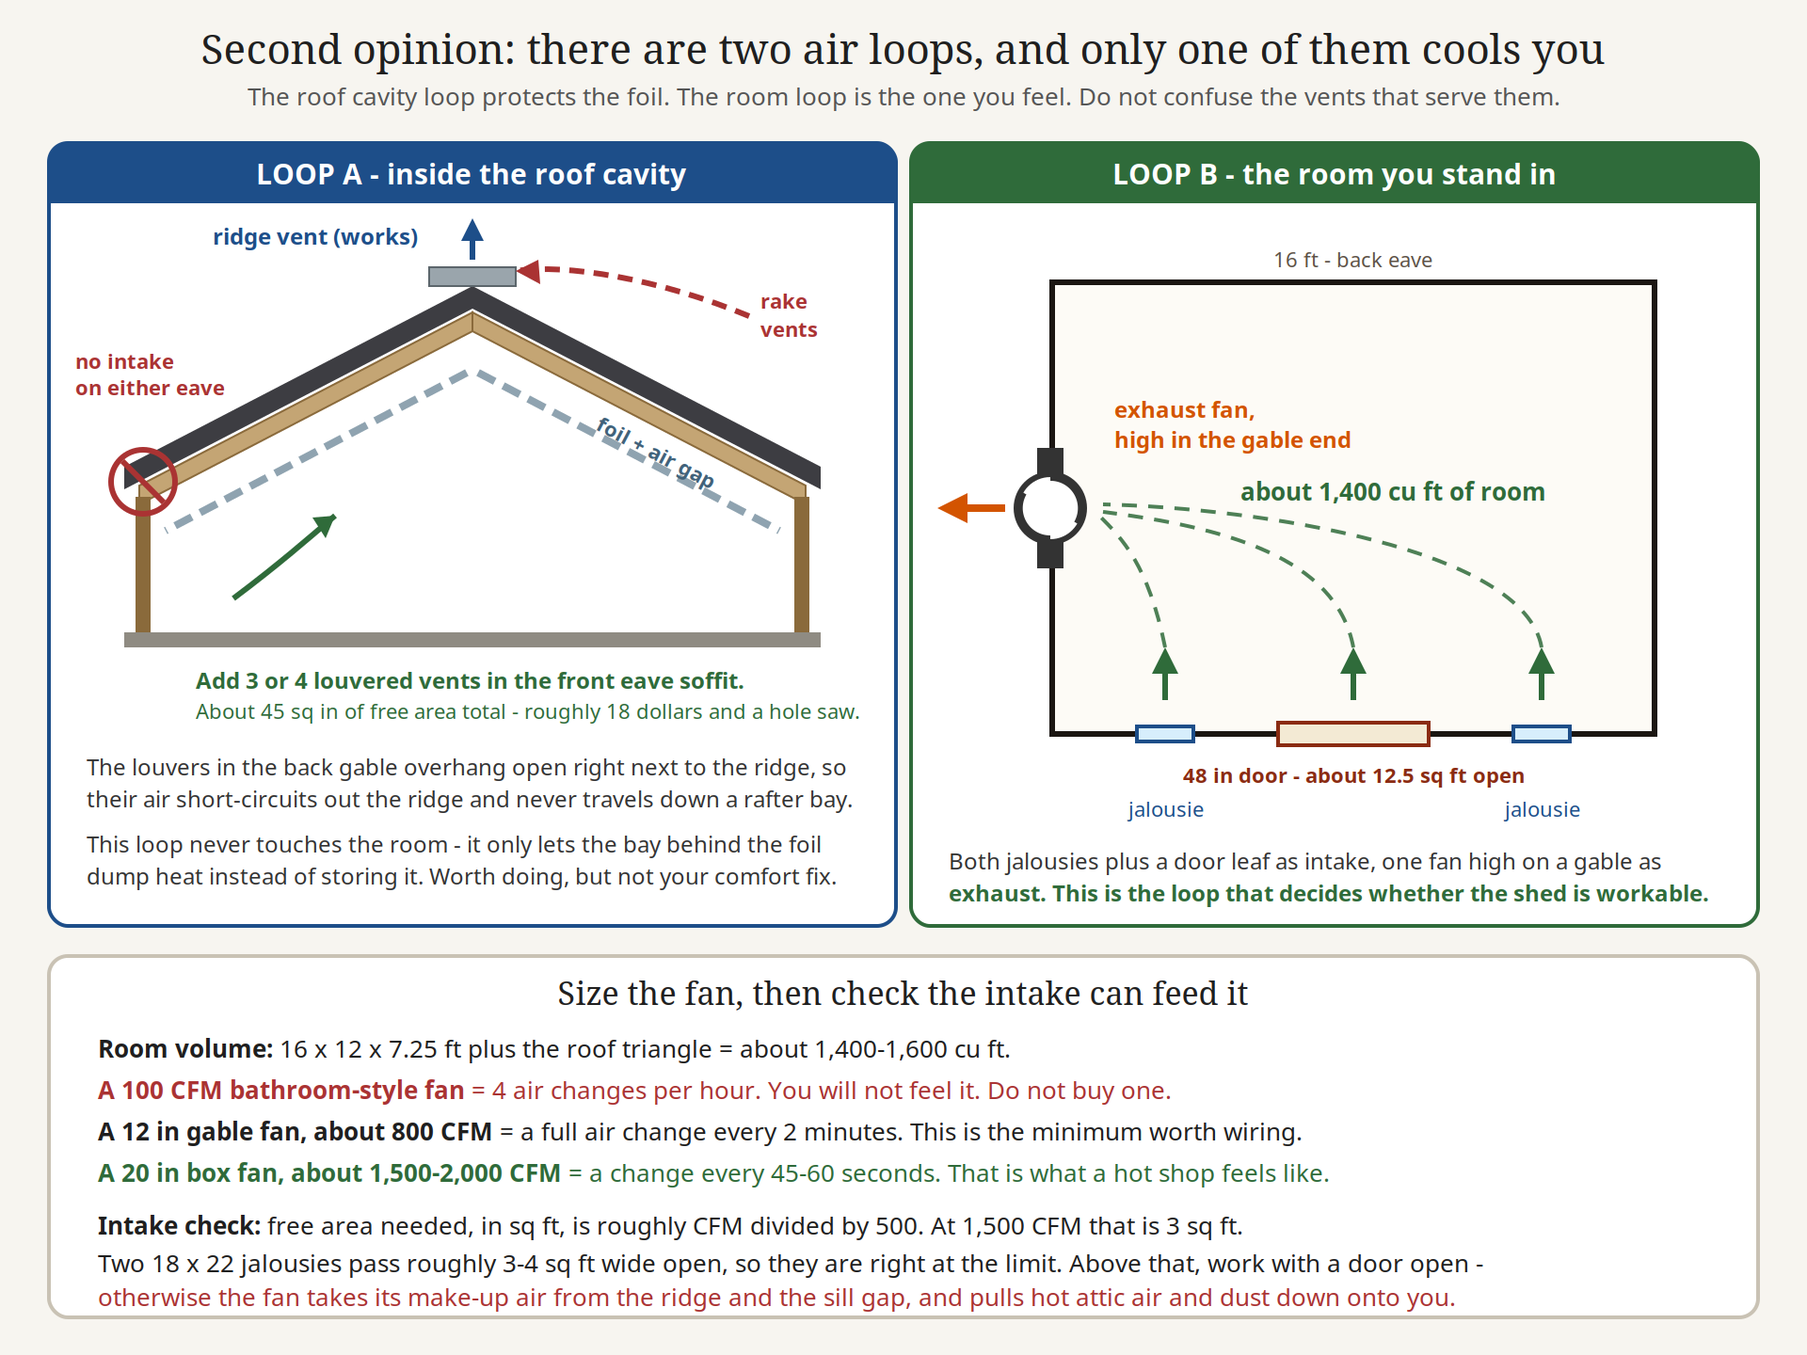
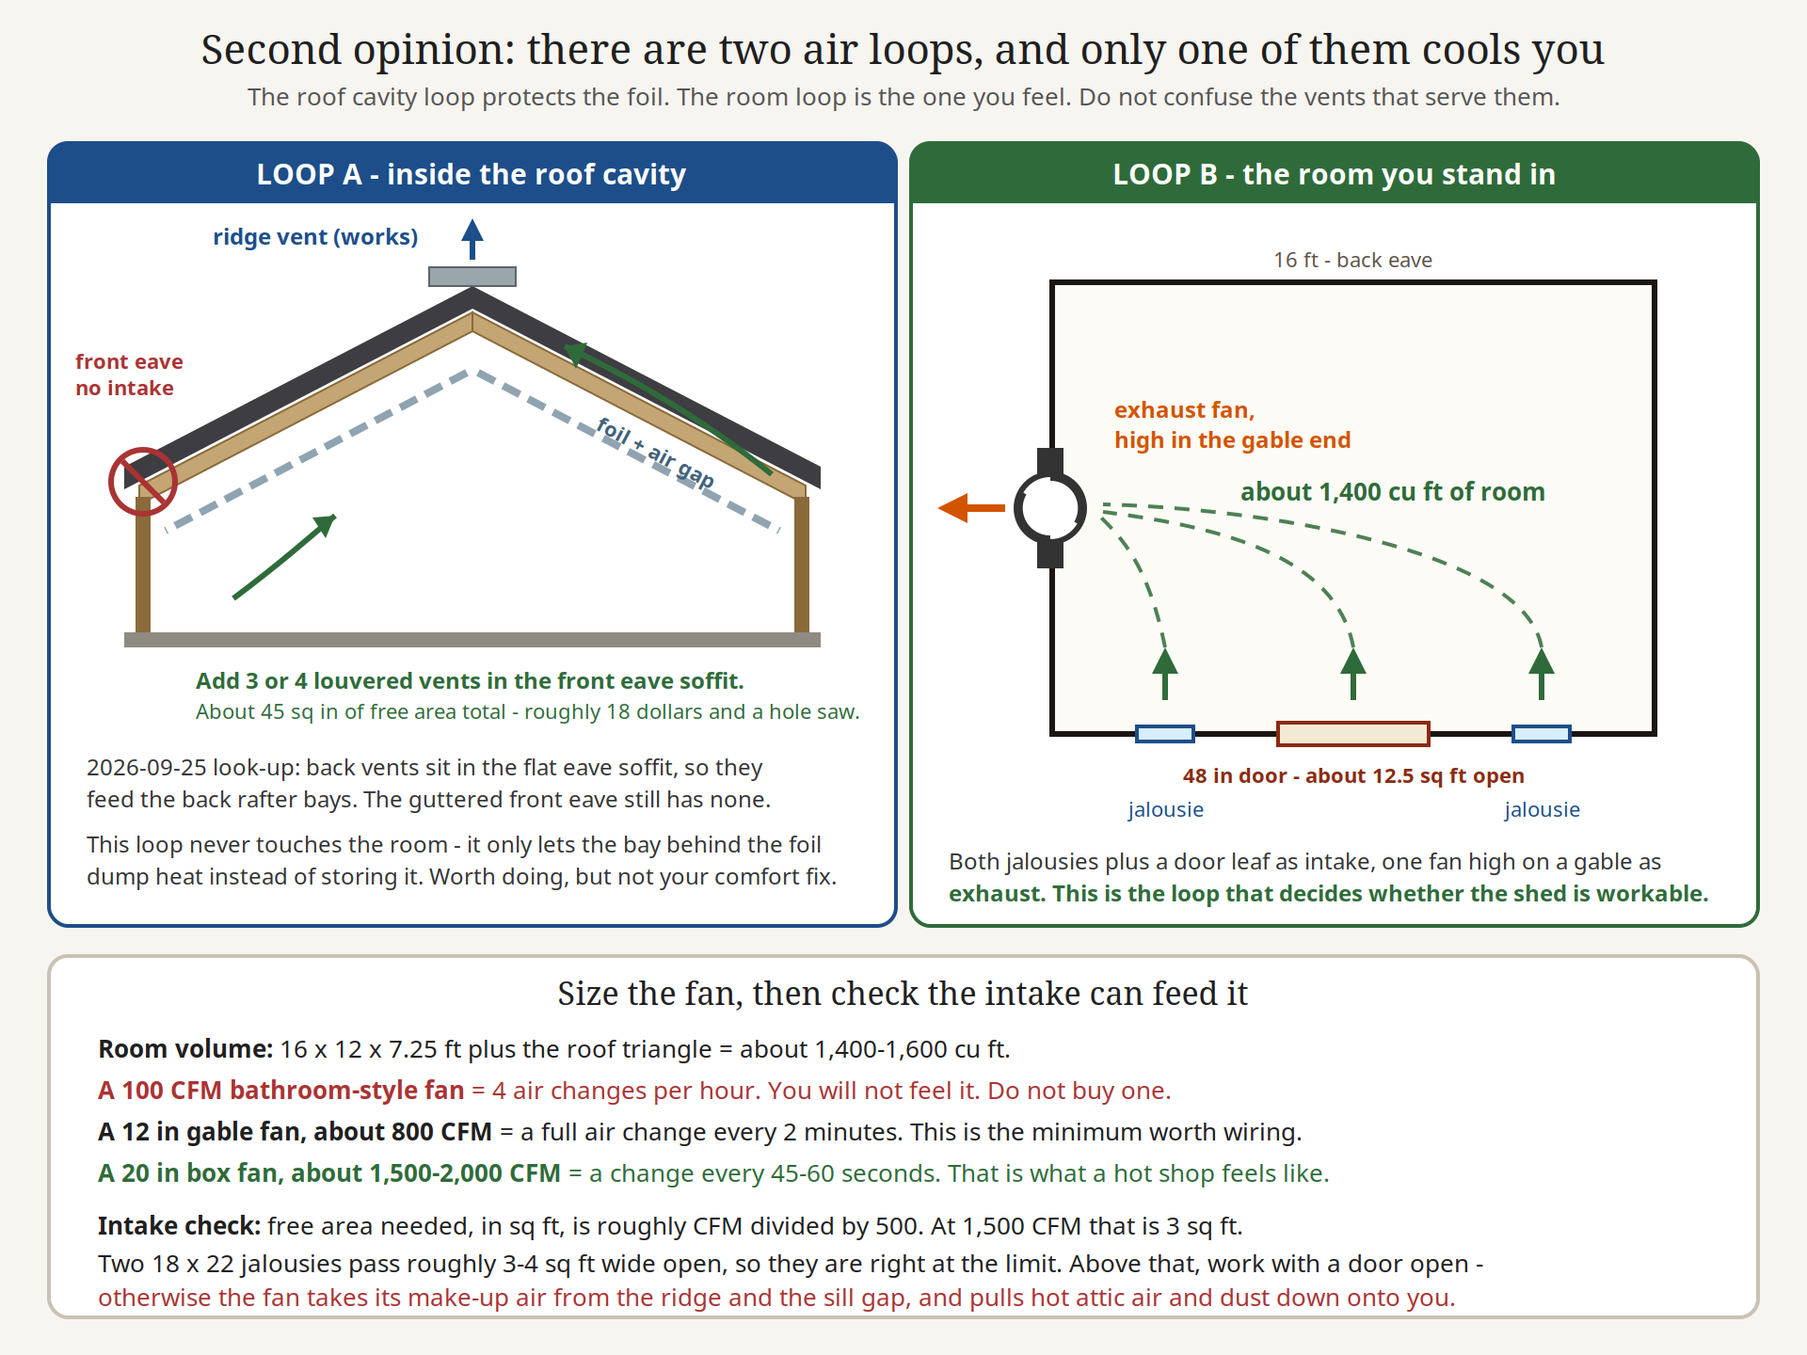
Record the 2026-09-25 shed photos and correct the back soffit path.
The look-up under the unguttered eave shows the louvers in the flat soffit, so they feed the back rafter bays. The front wall is clear, and the sill corners still need a probe at the door-jamb bolt.

diff --git a/index.html b/index.html
@@ -69,7 +69,7 @@
           <a href="photos/exterior-back.jpg">
             <img src="photos/exterior-back.jpg" alt="Back eave of the shed with a rectangular louvered soffit vent under the overhang.">
           </a>
-          <figcaption>Back eave — soffit vents. Roof-cavity intake to the ridge. Don't block them with foil or paint.</figcaption>
+          <figcaption>Back eave, wide shot. The 2026-09-25 look-up confirms these louvers are in the flat soffit and feed the rafter bays.</figcaption>
         </figure>
         <figure>
           <a href="photos/interior.jpg">
@@ -94,6 +94,36 @@
             <img src="photos/interior-sill.jpg" alt="Wall base: 2x4 studs on a wood sill plate, dark moisture stain on the bottom 6 to 10 inches, crumbly debris on the plate.">
           </a>
           <figcaption>Sill plate — moisture stain on the bottom 6–10". Probe before you seal. Don't bury rot.</figcaption>
+        </figure>
+        <figure>
+          <a href="photos/2026-09-25-exterior-front.jpg">
+            <img src="photos/2026-09-25-exterior-front.jpg" alt="Front of the shed with both doors open and a jalousie window on each side of the door.">
+          </a>
+          <figcaption>2026-09-25 front — both jalousies clear. The leaning panel is off the wall. Downspout still at the right corner.</figcaption>
+        </figure>
+        <figure class="eave">
+          <a href="photos/2026-09-25-back-soffit-vent.jpg">
+            <img src="photos/2026-09-25-back-soffit-vent.jpg" alt="Looking up at a louvered vent in the flat plywood soffit of the back eave.">
+          </a>
+          <figcaption>2026-09-25 soffit look-up — flat back-eave soffit, two-bank louver, no gutter. These feed the back rafter bays.</figcaption>
+        </figure>
+        <figure>
+          <a href="photos/2026-09-25-exterior-back.jpg">
+            <img src="photos/2026-09-25-exterior-back.jpg" alt="Blank back wall of the shed, tan vertical siding, no windows or gutter, grass to the base.">
+          </a>
+          <figcaption>2026-09-25 back — blank 16 ft eave. No gutter. Grass to the base. This is the gravel-strip wall.</figcaption>
+        </figure>
+        <figure>
+          <a href="photos/2026-09-25-interior-sill-corner.jpg">
+            <img src="photos/2026-09-25-interior-sill-corner.jpg" alt="Interior corner: studs on a wood plate over a concrete block stem, dirt on the plate, a circular saw blade leaning in the corner.">
+          </a>
+          <figcaption>2026-09-25 sill corner — plate on the block, dirt on the ledge, loose saw blade. Studs still full-section.</figcaption>
+        </figure>
+        <figure>
+          <a href="photos/2026-09-25-interior-sill-door.jpg">
+            <img src="photos/2026-09-25-interior-sill-door.jpg" alt="Interior door-jamb corner: anchor bolt in the sill plate, buried in dirt, stained stud bottoms.">
+          </a>
+          <figcaption>2026-09-25 door-jamb sill — anchor bolt buried in dirt. Thumb-test this bolt first.</figcaption>
         </figure>
       </div>
       <figure class="diagram">
@@ -124,7 +154,7 @@
         <a href="diagrams/alt-two-air-loops.png">
           <img src="diagrams/alt-two-air-loops.png" alt="Diagram: the roof cavity air loop versus the room air loop, with fan sizing and intake free area numbers.">
         </a>
-        <figcaption>Second opinion — two air loops. The rake vents short-circuit to the ridge, so no rafter bay has intake. Fan size, not foil, is the comfort lever.</figcaption>
+        <figcaption>Two air loops. Back soffit vents feed the back rafter bays (flat soffit, confirmed 2026-09-25). The front eave still needs intake. Fan size is the room-comfort lever.</figcaption>
       </figure>
       <figure class="diagram">
         <a href="diagrams/alt-barrier-plane.png">

diff --git a/SECOND-OPINION.md b/SECOND-OPINION.md
@@ -30,9 +30,7 @@ My diagrams are new files with new names, so nothing existing was overwritten:
 4. **The blue line on the roof deck is held by metal cable staples.** Zoomed in, there is a nail-through strap over
    a round blue jacketed line, repeated along the run. Chalk lines do not come with hardware. Trace it before you
    staple foil across those rafters.
-5. **The back vents are in the sloped rake soffit of the gable overhang, not in an eave soffit.** They open a couple
-   of feet from the ridge, so their air short-circuits straight back out the ridge vent. Neither 16 ft eave has any
-   intake at all.
+5. **Checked 2026-09-25: the back vents are in the flat eave soffit.** The look-up under the unguttered eave shows the louver in horizontal soffit, so those vents feed the back rafter bays. The rake short-circuit read further down was the wide shot, and it is withdrawn. The front (gutter) eave still has no soffit intake.
 6. **Fan size is the heat lever, not the foil.** A 100 CFM vent fan in 1,400 cu ft is 4 air changes an hour and you
    will not feel it. You want 800 CFM minimum, ideally 1,500–2,000.
 7. **The comfort target as written is not reachable.** Without AC or evaporation you cannot beat outdoor shade
@@ -115,6 +113,8 @@ The yellow cord hanging from a joist in [`photos/interior.jpg`](photos/interior.
 look like a leftover extension cord.
 
 ## 3. Those back vents are in the wrong plane to do what the notes assume
+
+**Update 2026-09-25.** The look-up in [`photos/2026-09-25-back-soffit-vent.jpg`](photos/2026-09-25-back-soffit-vent.jpg) answers the check at the end of this section. The louver is in the **flat eave soffit** of the unguttered back eave, with vertical T1-11 under it and no gutter in the frame. It feeds the back rafter bays. The paragraphs below are the earlier read of [`photos/exterior-back.jpg`](photos/exterior-back.jpg), kept so the misread stays visible. The front eave still has no intake, so the front-soffit-vent job stays. The diagram is updated to match the look-up.
 
 See [`diagrams/alt-two-air-loops.png`](diagrams/alt-two-air-loops.png).
 
@@ -284,7 +284,7 @@ moot. Three things from it still apply to the leftover scrape and to next summer
 | Is the blue line live | $15 non-contact voltage tester, then trace both ends | Do before stapling foil |
 | Plate at the anchor bolts | Thumb pressure and a screwdriver at each bolt, not just between them | The actual structural question |
 | Header sag over the door | 4 ft level or a string across the top plate | Explains door binding, if any |
-| Vent location, back gable | Look up from the ground: sloped rake soffit or flat eave soffit? | Decides whether the front eave needs intake vents |
+| Vent location, back eave | **Answered 2026-09-25.** Flat eave soffit. See [`photos/2026-09-25-back-soffit-vent.jpg`](photos/2026-09-25-back-soffit-vent.jpg). | Front eave still needs intake. The back bays already have it. |
 | Probe the stud bottoms | Screwdriver, **after several dry weeks** | Wet wood reads soft. Probing now over-diagnoses. |
 
 ## Money, roughly
@@ -317,7 +317,7 @@ I left all four alone in `.cursorrules`, `NOTES.md`, and the site. Your call.
    Evidence is in the zoomed photo: a nail-through strap over a round jacketed line, repeated along the run. Cheap to
    settle with a tester.
 2. **"Back eave has two soffit vents … roof-cavity intake to the ridge."** I read them as rake soffit vents in the gable
-   overhang, which short-circuit to the ridge and do not feed the rafter bays. Confirmable by standing under them.
+   overhang, which short-circuit to the ridge and do not feed the rafter bays. **Resolved 2026-09-25:** the look-up shows a flat eave soffit. The locked note was the right call. Front eave intake is still missing.
 3. **Sill seal = "hardware cloth in the gap + Z-flashing or a PT/PVC skirt."** I would screen and leave it vented, and
    skip the skirt. The wall is open on the inside and can dry inward; the skirt mostly adds a debris trap and a void.
 4. **"Prefer a lighter color … helps the 105 °F problem"** and **the phase order that puts heat after the envelope.**
@@ -329,7 +329,7 @@ I left all four alone in `.cursorrules`, `NOTES.md`, and the site. Your call.
 | Diagram | What it argues |
 |---|---|
 | [`alt-water-first.png`](diagrams/alt-water-first.png) | Section through an un-guttered eave wall: splash, the raw siding edge, the interior berm, the anchor-bolt check, and the four things to do first |
-| [`alt-two-air-loops.png`](diagrams/alt-two-air-loops.png) | The roof-cavity loop versus the room loop, the rake-vent short circuit, and fan sizing against intake free area |
+| [`alt-two-air-loops.png`](diagrams/alt-two-air-loops.png) | The roof-cavity loop versus the room loop. Updated 2026-09-25: back soffit vents feed the back bays; the front eave still has no intake. Fan sizing is unchanged. |
 | [`alt-barrier-plane.png`](diagrams/alt-barrier-plane.png) | Foil on the rafters versus flat on the collar ties, and how that choice constrains where the fan can go |
 
 SVG sources sit next to each PNG in [`diagrams/`](diagrams/).

diff --git a/TODO.md b/TODO.md
@@ -9,9 +9,10 @@
 - [ ] Measure roof face for solar (one eave-to-ridge rafter length, or pitch + ridge height). No ladder needed: hold a phone level app flat on the underside of a rafter, pitch = 12 x tan(angle)
 - [ ] Measure the exterior wall-to-block gap width (the hole the cloth has to fill) — **before** buying the cloth roll
 - [ ] Trace the blue stapled line on the roof deck with a non-contact voltage tester before any foil goes up (see [SECOND-OPINION.md](SECOND-OPINION.md))
-- [ ] Pull the big flat panel leaning against the front wall — it traps water on the siding and it is what hides the left jalousie in [photos/exterior.jpg](photos/exterior.jpg)
+- [x] Pull the big flat panel leaning against the front wall (clear in [photos/2026-09-25-exterior-front.jpg](photos/2026-09-25-exterior-front.jpg); both jalousies are visible)
 - [ ] Shovel the dirt berm out of the inside wall-to-slab corner. It holds water against the plate for days and it is free to fix
 - [ ] Get rid of more junk (mower / chairs / wheelbarrow / leftover yard stuff — bike can stay)
+- [ ] Pick up the loose circular saw blade in the wall-base corner before the wet-clean (cut hazard; see [photos/2026-09-25-interior-sill-corner.jpg](photos/2026-09-25-interior-sill-corner.jpg))
 - [ ] Take lumber and corrugated sheets **off the collar ties** (they block the radiant-barrier staple-up)
 - [ ] Walk the gas cans out of the 105°F box until the shed is ventilated
 - [ ] Clean interior walls
@@ -117,7 +118,7 @@ Do this **after** Phase 1 cleanup + the screwdriver test. If bottoms are punky, 
 - [ ] Install interior radiant barrier: staple to the **underside of the rafters** (not tight to the OSB) so a 1"+ air gap stays against the hot deck; leave the **ridge vent and back soffit vents** unblocked
 - [ ] Seal daylight gaps at corners and roof-to-wall joints (not only the foundation line)
 - [ ] Knock webs off the back soffit vents so they actually pull (don't paint the louvers shut)
-- [ ] Add 3–4 louvered vents in the **front** eave soffit (about 45 sq in of free area). The back louvers are in the sloped rake soffit and short-circuit to the ridge, so no rafter bay currently has intake (see [SECOND-OPINION.md](SECOND-OPINION.md))
+- [ ] Add 3–4 louvered vents in the **front** eave soffit (about 45 sq in of free area). The back vents are in the flat eave soffit and feed the back rafter bays (look-up 2026-09-25). The guttered front eave still has no intake, so the front slope's bays do not.
 - [ ] Add an exhaust fan (**both jalousies** as intake, exhaust high on the opposite side or gable) — soffit vents are for the roof bay, not a substitute for this
 - [ ] Size that fan **800 CFM minimum, 1,500–2,000 ideal** (the room is ~1,400 cu ft). A 100 CFM vent fan is 4 air changes an hour and you will not feel it. Keep the fan on the room side of the foil
 - [ ] Buy a $20 infrared thermometer and log deck vs foil surface temps before and after — the air temp will understate what the foil did
@@ -128,9 +129,8 @@ Do this **after** Phase 1 cleanup + the screwdriver test. If bottoms are punky, 
 
 ## Open questions
 - Is the blue stapled line on the roof deck live, and where does it go? (It is held by metal cable staples, so it is hardware, not chalk.)
-- Are the back louvers in the flat eave soffit or the sloped rake soffit? That decides whether the rafter bays have any intake.
+- Is the crumbly layer under the dirt on the plate soft wood, or only the dirt itself? The 2026-09-25 corners read as soil on the slab. Probe after it dries, and thumb-test the door-jamb anchor bolt first.
 - Roof face / pitch / ridge height (for foil quantity and solar).
 - How wide is the exterior wall-to-block gap?
 - Sill is a **2×6** (5.5 × 1.5). Treated? How soft are the stained bottoms? Run length Y not taped.
-- Is the crumbly material on the sill dirt, punky rot, or insect frass?
 - Does the small ridge vent leak?

diff --git a/README.md b/README.md
@@ -29,7 +29,12 @@ Open `README.md` first. Agent context lives in [`.cursorrules`](.cursorrules). T
 │   ├── interior.jpg
 │   ├── interior-roof.jpg
 │   ├── interior-rafters.jpg
-│   └── interior-sill.jpg
+│   ├── interior-sill.jpg
+│   ├── 2026-09-25-exterior-front.jpg
+│   ├── 2026-09-25-back-soffit-vent.jpg
+│   ├── 2026-09-25-exterior-back.jpg
+│   ├── 2026-09-25-interior-sill-corner.jpg
+│   └── 2026-09-25-interior-sill-door.jpg
 └── diagrams/      ← how-to drawings
     ├── radiant-barrier-diagram.png
     ├── radiant-barrier.svg
@@ -66,7 +71,7 @@ Open `README.md` first. Agent context lives in [`.cursorrules`](.cursorrules). T
 - **Power:** none on site. Modest solar later (lights, charging, fan). Cleanup sessions: battery lights/fan or a GFCI outdoor cord — not AC on a long run.
 - **Door:** 48 × 75.5" opening, two ~24" leaves. Bottoms rotting, frame good — repair, don't replace the opening.
 - **Foundation:** **16 × 12 ft** slab + ~8.5" cinder-block stem. Sill is a **2×6** (5.5 × 1.5). Bottom ~6–10" of 74" 2×4 studs/sheathing is moisture-stained — probe before sealing. Saveable-looking. Seal = **hardware cloth in the gap + flashing/skirt**, not foam-only. Downspout dumps on the corner — move it. See [diagrams/sill-seal.png](diagrams/sill-seal.png) and [diagrams/floor-plan.png](diagrams/floor-plan.png).
-- **Roof inside:** open 2x4 rafters, bare OSB. Back eave has **two soffit vents**; front gutter/eave has none. Take lumber off the collar ties before the foil. Don't block the soffit or ridge. Roof face / pitch still unmeasured.
+- **Roof inside:** open 2x4 rafters, bare OSB. Back eave vents are in the **flat soffit** (look-up 2026-09-25) and feed the back rafter bays. Front gutter/eave has none. Take lumber off the collar ties before the foil. Don't block the soffit or ridge. Roof face / pitch still unmeasured.
 - **Dimensions:** 16 × 12 foundation, 87" top-of-wall to bottom-of-block (2×6 sill + 74" 2×4 + **double top plate** + 8.5" block). Centered 48 × 75.5" door with an **18 × 22" jalousie on each side**. Studs run to the sheathing. Still need roof pitch and the wall-to-block gap.
 
 ## Known facts
@@ -74,4 +79,4 @@ Open `README.md` first. Agent context lives in [`.cursorrules`](.cursorrules). T
 - Approach: DIY as much as possible
 - Exterior: faded tan T1-11 siding, white trim, dark shingle gable roof, white gutters, **two** 18×22 jalousies flanking a centered double door, small ridge vent, **two soffit vents on the back eave and none on the front gutter/eave**
 - Size: **16 ft eave × 12 ft gable**, ~192 sq ft. 2×4 walls, 2×6 sill, ~8.5" block.
-- Photos: [photos/exterior.jpg](photos/exterior.jpg), [photos/exterior-back.jpg](photos/exterior-back.jpg), [photos/interior.jpg](photos/interior.jpg), [photos/interior-roof.jpg](photos/interior-roof.jpg), [photos/interior-rafters.jpg](photos/interior-rafters.jpg), [photos/interior-sill.jpg](photos/interior-sill.jpg)
+- Photos: [photos/exterior.jpg](photos/exterior.jpg), [photos/exterior-back.jpg](photos/exterior-back.jpg), [photos/interior.jpg](photos/interior.jpg), [photos/interior-roof.jpg](photos/interior-roof.jpg), [photos/interior-rafters.jpg](photos/interior-rafters.jpg), [photos/interior-sill.jpg](photos/interior-sill.jpg). Newer set (2026-09-25): [front](photos/2026-09-25-exterior-front.jpg), [soffit look-up](photos/2026-09-25-back-soffit-vent.jpg), [back](photos/2026-09-25-exterior-back.jpg), [sill corner](photos/2026-09-25-interior-sill-corner.jpg), [door-jamb sill](photos/2026-09-25-interior-sill-door.jpg).

diff --git a/NOTES.md b/NOTES.md
@@ -2,6 +2,16 @@
 
 A brief, dated log of everything discussed for the shed improvement project. Newest entries are added at the top.
 
+## 2026-09-25 (front, back, soffit look-up, sill corners)
+- Five new shots: [front](photos/2026-09-25-exterior-front.jpg) (door wall, both leaves open), [soffit look-up](photos/2026-09-25-back-soffit-vent.jpg), [back wall](photos/2026-09-25-exterior-back.jpg), [sill corner](photos/2026-09-25-interior-sill-corner.jpg), [door-jamb sill](photos/2026-09-25-interior-sill-door.jpg).
+- **Back vents are in the flat eave soffit.** The look-up has no gutter, so it is the back eave. A two-bank louver sits in horizontal plywood soffit, with vertical T1-11 under it. That path feeds the back rafter bays up to the ridge. The earlier rake short-circuit read was the wide shot at the corner. Diagram updated: [diagrams/alt-two-air-loops.png](diagrams/alt-two-air-loops.png). Soffit plywood around the vent is water-stained. Leave the louvers open.
+- **Front slope still has no soffit intake.** The gutter runs the door eave. The downspout still drops at the right-hand corner when you face the door. Adding 3-4 louvered vents in that front soffit is still the intake for the front rafter bays.
+- **The leaning panel is off the front wall.** Both jalousies are clear in the new front shot. Door bottoms are too far away in this frame to judge the rot.
+- **Back wall is a blank 16 ft eave.** No opening, no gutter, grass to the base, siding field looks intact. This is the wall the gravel drip strip is for. A dirt mound in the lawn sits a few feet out from the wall. Cardboard and leaves are in the grass at the near corner.
+- **Sill corners still look salvageable, and the berm is still there.** The 2x6 plate is the wide ledge inside the 2x4s, sitting on the block. Studs are full-section, dark on the bottom few inches. One corner stud has a vertical check at the bottom. Probe that stud, and thumb-test the anchor bolt in the door-jamb corner first. That bolt is buried in dirt. The pile on the plate in these shots reads as dirt on the slab, with a dirt film on the floor. The plate does not show a green treated tint here. Find a stamp or a fresh cut before calling it untreated.
+- Loose circular saw blade in the corner comes out with the junk. It is a cut hazard while you clean.
+- Still need: roof pitch, exterior gap width, how soft the wood is under the dirt, whether the ridge vent leaks.
+
 ## 2026-09-21 (nest gone)
 - Yellow jacket nest under the gutters is **gone**. Phase 0 treatment is done; eave/roof work is allowed. Leftover: scrape remnants and reseat gutter guards. Next real job is Phase 1 junk-out / wet-clean.
 
